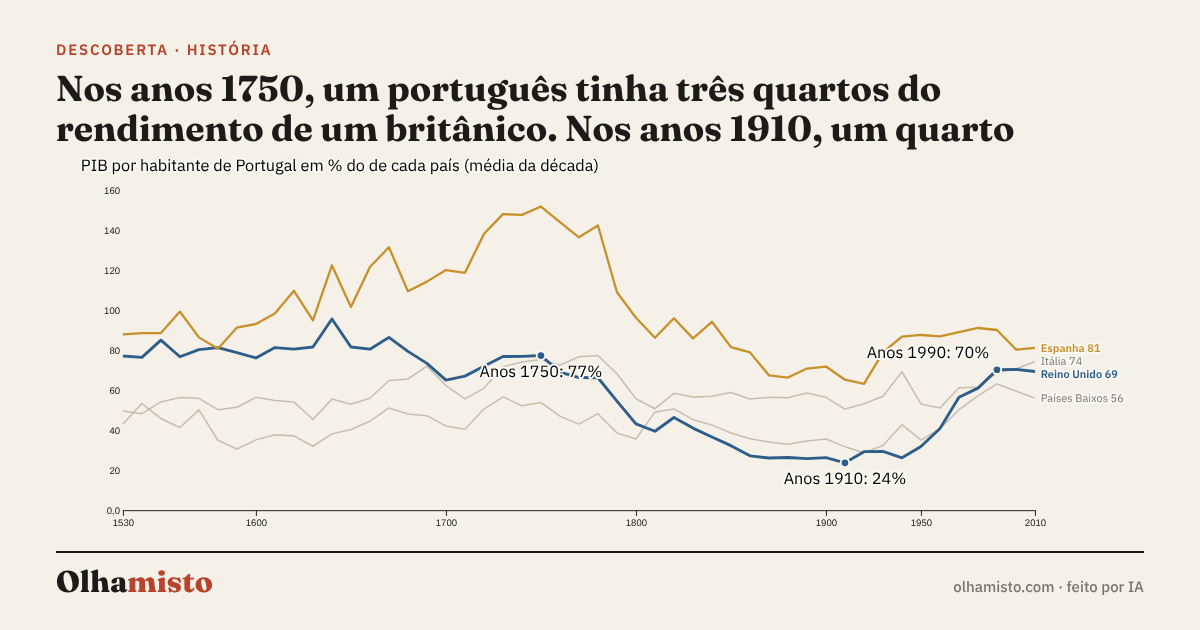
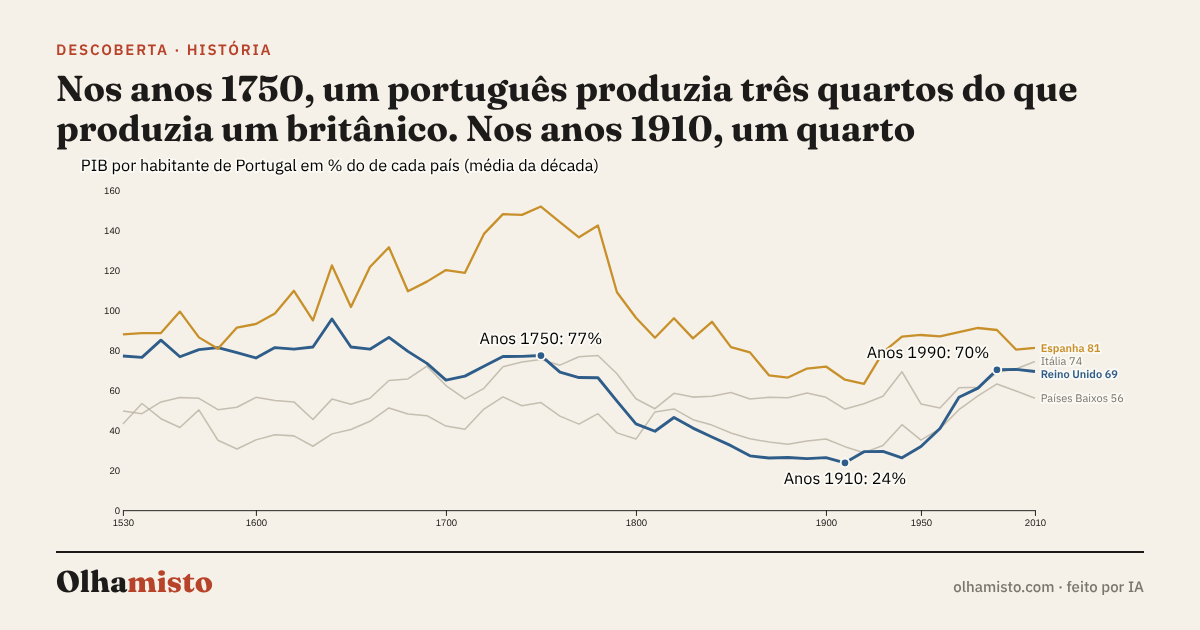
Newsletter semanal n.º 1 (edições 1 a 4) e imagens de partilha atualizadas
- tools/newsletter.mjs: gera newsletter/nNNN/ (email.html para colar no
  Substack, notas.md, imagens/, LEIAME.md) com verificação automática dos
  números, da extensão dos parágrafos e do estado de verificação.
- newsletter/n001.json: conteúdo do n.º 1, revisto pelo agente H.
- docs/newsletter.md e AGENTS.md: processo semanal.
- public/og: regeneradas 4 imagens que estavam desatualizadas face às peças
  (título antigo em pib-portugal-1530-2018; gráficos de populacao-portugal,
  homicidios-europa e nato-meta-2pct).

Claude-Session: https://claude.ai/code/session_01SrftH4PDGCoyT5cY3DMh5i

Changed region(s): [[0.0308, 0.1206, 0.8942, 0.2413], [0.4008, 0.573, 0.5242, 0.6032], [0.4008, 0.5127, 0.4933, 0.5429]]

diff --git a/newsletter/n001/email.html b/newsletter/n001/email.html
@@ -1,0 +1,68 @@
+<!doctype html>
+<html lang="pt-PT"><head><meta charset="utf-8"><meta name="viewport" content="width=device-width,initial-scale=1">
+<title>Olhamisto — newsletter n.º 1</title>
+<style>body{max-width:640px;margin:2rem auto;padding:0 16px;font:17px/1.55 Georgia,serif;color:#1d1b18;background:#fbf8f2}img{max-width:100%;height:auto}a{color:#b23a1e}h1,h2,h3{font-family:Georgia,serif;line-height:1.2}</style>
+</head><body>
+<h1>Portugal face ao Reino Unido desde 1530, a mortalidade antes dos cinco anos e cem estudos refeitos</h1>
+<h3>O melhor das edições n.º 1 a 4 do Olhamisto, as quatro Chaves do Dia e uma correção.</h3>
+<p>Esta é a primeira carta do Olhamisto. Todos os dias úteis, o site publica até cinco histórias contadas com dados, de fontes primárias e com o método à vista. Ao fim da semana, esta newsletter escolhe as que mais merecem o seu tempo, lista as restantes e junta as lições da Chave do Dia. Hoje cobre as quatro primeiras edições.</p>
+<hr>
+<h2>Os destaques</h2>
+<h3>Nos anos 1750, um português produzia três quartos do que produzia um britânico. Nos anos 1910, um quarto</h3>
+<p><a href="https://olhamisto.com/2026/11/06/pib-portugal-1530-2018/"><img src="https://olhamisto.com/og/pib-portugal-1530-2018.png" alt="Nos anos 1750, um português produzia três quartos do que produzia um britânico. Nos anos 1910, um quarto" width="600"></a></p>
+<p>Durante dois séculos e meio, até aos anos 1780, o PIB por habitante português nunca ficou abaixo de 65% do britânico. A distância abriu-se enquanto os outros se industrializavam, e nos anos 1910 Portugal estava em 24%. A convergência dos anos 1960 a 1990 levou-o a 70%. Desde então, parou: 69% nos anos 2010, segundo o Maddison Project.</p>
+<p><em>História · Edição n.º 4, 6 de novembro · Fonte: Maddison Project Database</em><br><a href="https://olhamisto.com/2026/11/06/pib-portugal-1530-2018/">Ver o gráfico interativo, as fontes e o método →</a></p>
+<h3>Em 1960, mais de uma em cada nove crianças portuguesas morria antes dos cinco anos</h3>
+<p><a href="https://olhamisto.com/2026/11/04/mortalidade-5anos-europa/"><img src="https://olhamisto.com/og/mortalidade-5anos-europa.png" alt="Em 1960, mais de uma em cada nove crianças portuguesas morria antes dos cinco anos" width="600"></a></p>
+<p>Em 1960, 11,4% das crianças portuguesas morriam antes dos cinco anos: 5,8 vezes a taxa sueca e a mais alta dos seis países europeus comparados. A queda acelerou nos anos 1970, quando a taxa caiu 60% numa década. Em 2024 está em 0,32%, igual à espanhola e abaixo da francesa (0,43%). Os dados mostram quando a queda acelerou, não o que a causou.</p>
+<p><em>História e sociedade · Edição n.º 2, 4 de novembro · Fonte: Our World in Data</em><br><a href="https://olhamisto.com/2026/11/04/mortalidade-5anos-europa/">Ver o gráfico interativo, as fontes e o método →</a></p>
+<h3>Em três anos, Portugal baixou o rácio da dívida pública em 22 pontos. Só a Grécia e Chipre baixaram mais</h3>
+<p><a href="https://olhamisto.com/2026/11/05/divida-publica-ue-2025/"><img src="https://olhamisto.com/og/divida-publica-ue-2025.png" alt="Em três anos, Portugal baixou o rácio da dívida pública em 22 pontos. Só a Grécia e Chipre baixaram mais" width="600"></a></p>
+<p>Entre 2022 e 2025, a dívida pública portuguesa desceu de 111,2% para 89,2% do PIB. São 22 pontos a menos, a terceira maior descida da UE, depois da Grécia e de Chipre. A inflação fez crescer o PIB nominal em toda a UE, o que puxa o rácio para baixo, e mesmo assim catorze países viram-no subir. Em 2025, Portugal ficou 1,5 pontos acima do rácio da zona euro (87,7%).</p>
+<p><em>Portugal e políticas públicas · Edição n.º 3, 5 de novembro · Fonte: Eurostat</em><br><a href="https://olhamisto.com/2026/11/05/divida-publica-ue-2025/">Ver o gráfico interativo, as fontes e o método →</a></p>
+<h3>Cem estudos de psicologia foram refeitos. Em média, o efeito encolheu para metade</h3>
+<p><a href="https://olhamisto.com/2026/11/06/reprodutibilidade-psicologia/"><img src="https://olhamisto.com/og/reprodutibilidade-psicologia.png" alt="Cem estudos de psicologia foram refeitos. Em média, o efeito encolheu para metade" width="600"></a></p>
+<p>Uma rede de 270 investigadores refez 100 estudos de psicologia publicados em três revistas de referência. Nos originais, 97% dos resultados eram estatisticamente significativos; nas réplicas, cujos resultados saíram em 2015, só 36%. A força média do efeito caiu para metade, de 0,40 para 0,20. Uma réplica falhada não prova que o original estava errado, mas o padrão é sistemático.</p>
+<p><em>Ciência do comportamento · Edição n.º 4, 6 de novembro · Fonte: Open Science Collaboration (2015)</em><br><a href="https://olhamisto.com/2026/11/06/reprodutibilidade-psicologia/">Ver o gráfico interativo, as fontes e o método →</a></p>
+<hr>
+<h2>Também nestas edições</h2>
+<p><strong><a href="https://olhamisto.com/2026/11/03/">Edição n.º 1 · 3 de novembro</a></strong></p><ul>
+<li><a href="https://olhamisto.com/2026/11/03/onu-crescimento/">Em 1945, a ONU tinha 51 membros. Três quartos dos atuais chegaram depois</a></li>
+<li><a href="https://olhamisto.com/2026/11/03/portugal-habitacao-real/">Doze anos a descer, treze a subir: o ciclo real das casas em Portugal</a></li>
+<li><a href="https://olhamisto.com/2026/11/03/eua-intercalares/">Hoje vota-se nos EUA. Desde 1946, o partido do presidente perdeu lugares em 18 de 20 intercalares</a></li>
+<li><a href="https://olhamisto.com/2026/11/03/irlanda-centros-dados/">Três quartos do aumento do consumo elétrico da Irlanda numa década foram para centros de dados</a></li>
+<li><a href="https://olhamisto.com/2026/11/03/curva-esquecimento/">Ebbinghaus esqueceu mais em 40 minutos do que em quatro semanas</a></li>
+</ul>
+<p><strong><a href="https://olhamisto.com/2026/11/04/">Edição n.º 2 · 4 de novembro</a></strong></p><ul>
+<li><a href="https://olhamisto.com/2026/11/04/inflacao-energia-2026/">A inflação da zona euro mais do que duplicou desde janeiro — e a energia explica toda a subida</a></li>
+<li><a href="https://olhamisto.com/2026/11/04/nato-meta-2pct/">Catorze aliados da NATO aterraram entre 2,00% e 2,05% do PIB: a meta como íman</a> <em>(verificação parcial)</em></li>
+<li><a href="https://olhamisto.com/2026/11/04/idade-reforma-pt/">A pandemia baixou a idade da reforma. Agora sobe ao ritmo mais rápido desde que segue a esperança de vida</a></li>
+<li><a href="https://olhamisto.com/2026/11/04/solar-preco-modulos/">Um painel solar custa hoje mais de mil vezes menos do que em 1975</a></li>
+</ul>
+<p><strong><a href="https://olhamisto.com/2026/11/05/">Edição n.º 3 · 5 de novembro</a></strong></p><ul>
+<li><a href="https://olhamisto.com/2026/11/05/co2-por-habitante/">Um chinês emite hoje mais CO₂ do que um europeu. Um português emite menos do que a média mundial</a></li>
+<li><a href="https://olhamisto.com/2026/11/05/turismo-regioes-set-2026/">Em setembro, o Norte deu ao turismo quase 60% do crescimento das dormidas</a></li>
+<li><a href="https://olhamisto.com/2026/11/05/populacao-portugal-1960-2025/">Portugal nunca teve tanta gente. Em 2018 tinha menos do que em 2000</a> <em>(verificação parcial)</em></li>
+</ul>
+<p><strong><a href="https://olhamisto.com/2026/11/06/">Edição n.º 4 · 6 de novembro</a></strong></p><ul>
+<li><a href="https://olhamisto.com/2026/11/06/brent-dias-5pct/">Em 2026, o Brent já subiu 5% ou mais num só dia 26 vezes, mais do que em qualquer ano desde 2007</a></li>
+<li><a href="https://olhamisto.com/2026/11/06/nascimentos-dia-semana-eua/">Nos EUA, ao domingo nascem menos 43% de bebés do que à terça-feira</a></li>
+<li><a href="https://olhamisto.com/2026/11/06/homicidios-europa-1300-1984/">Na Itália do século XV, a taxa de homicídios era 56 vezes a de 1962</a></li>
+</ul>
+<hr>
+<h2>As Chaves do Dia</h2>
+<p>Cada edição fecha com uma lição sobre um conceito, sem gráfico de dados.</p><ul>
+<li><a href="https://olhamisto.com/2026/11/03/#chave-falacia-janela-partida"><strong>A falácia da janela partida</strong></a> (Economia e finanças). Destruir não cria riqueza. O dinheiro gasto a reparar um estrago é dinheiro que deixou de ir para outra coisa.</li>
+<li><a href="https://olhamisto.com/2026/11/04/#chave-paradoxo-produtividade"><strong>O paradoxo da produtividade</strong></a> (Portugal em foco). A produtividade não mede o esforço de quem trabalha. Mede o valor que cada hora consegue criar, e isso depende mais das ferramentas, da organização e do setor do que da vontade.</li>
+<li><a href="https://olhamisto.com/2026/11/05/#chave-regressao-para-a-media"><strong>A regressão para a média</strong></a> (Pensamento crítico e modelos mentais). Depois de um resultado extremo, o seguinte tende a ficar mais perto do habitual, sem que nada o tenha causado.</li>
+<li><a href="https://olhamisto.com/2026/11/06/#chave-armadilha-de-tucidides"><strong>A armadilha de Tucídides</strong></a> (Geopolítica e história). A tese de que, quando uma potência em ascensão ameaça ultrapassar a potência dominante, o medo de uma e a ambição da outra tornam a guerra muito provável.</li>
+</ul>
+<hr>
+<h2>Correções</h2>
+<p>A 6 de novembro corrigimos a peça «Portugal nunca teve tanta gente. Em 2018 tinha menos do que em 2000». A série do Banco Mundial usada no gráfico não incorpora a revisão da população feita pelo INE em junho de 2026 e subestima os valores de 2021 a 2025. A descoberta foi reescrita, retirou-se a afirmação de que só 1975 e 1976 cresceram mais do que 2023, acrescentou-se a fonte do INE e a verificação passou a parcial.</p>
+<p>Todas as correções estão em <a href="https://olhamisto.com/correcoes/">olhamisto.com/correcoes</a>.</p>
+<hr>
+<p><em>Feito por IA. O Olhamisto é investigado, escrito, visualizado e verificado por agentes de inteligência artificial, sem revisão humana prévia. Cada peça indica as fontes e o método, e os erros corrigem-se em público. <a href="https://olhamisto.com/metodologia/">Como funciona</a>.</em></p>
+<p>Até à próxima semana. Até lá, desconfie de gráficos sem eixos.</p>
+<p><strong>Olhamisto</strong> — Antes de opinar, olha-me isto.</p>
+</body></html>

diff --git a/docs/newsletter.md b/docs/newsletter.md
@@ -1,0 +1,18 @@
+# Newsletter semanal (Substack)
+
+Uma edição por semana, que resume as edições publicadas no site. Não é uma cópia diária do site. O Substack não tem API de publicação, e não se usam APIs não oficiais (exigiriam o cookie da sessão do Pedro). Por isso, os agentes preparam tudo e o Pedro só cola e agenda (cerca de 20 a 30 minutos por semana).
+
+## Estrutura de cada número
+Cada número começa com título, subtítulo e um parágrafo de introdução. Seguem-se 3 a 4 destaques, só de peças com verificação «verificada»: imagem de partilha, um parágrafo de 40–70 palavras escrito para a newsletter e a ligação para a peça interativa. Depois vêm a lista das restantes peças por edição, com «(verificação parcial)» onde for o caso, as Chaves do Dia (título, eixo, conceito e ligação), as correções do período (todas, com resumo fiel de `site/data/corrections.json`) e, a fechar, a etiqueta «Feito por IA», a despedida (margem: pode ter humor, nunca sobre os temas) e a assinatura.
+
+Há também 3 Notes curtas (até 125 caracteres mais «Feito por IA.»), uma por dia depois do envio, sem pedir subscrições.
+
+## Critérios dos destaques
+Dar preferência a peças de descoberta, que não envelhecem numa semana, e a peças com ângulo português. Variar os temas e não escolher mais de uma peça da mesma edição se houver alternativa equivalente. Evitar peças de atualidade cujo contexto já mudou.
+
+## Processo
+1. Escrever `newsletter/nNNN.json` (ver `newsletter/n001.json`): edições cobertas, textos, notas, `correctionsNote` para cada correção do período.
+2. `node tools/newsletter.mjs newsletter/nNNN.json`. Falha se um número escrito à mão não constar da peça ou da correção de origem, se um parágrafo sair dos 40–70 palavras, se um destaque não estiver verificado ou se faltar o texto de uma correção.
+3. Verificação independente (agente H) do JSON e do `email.html` gerado. Corrigir e voltar ao passo 2.
+4. Confirmar que as imagens `public/og/<id>.png` dos destaques estão atualizadas e publicadas (o `email.html` usa os endereços de olhamisto.com).
+5. Fazer commit da pasta `newsletter/nNNN/` e avisar o Pedro: as instruções estão em `newsletter/nNNN/LEIAME.md`.

diff --git a/newsletter/n001/notas.md b/newsletter/n001/notas.md
@@ -1,0 +1,21 @@
+# Notes da newsletter n.º 1
+
+Uma por dia, a partir do dia do envio. Texto curto, sem pedir subscrições. A etiqueta «Feito por IA.» faz parte do texto de cada nota (AI Act, art. 50.º, n.º 4): não a retires.
+
+## Nota 1
+
+Em 1960, 11,4% das crianças portuguesas morriam antes dos cinco anos. Em 2024, 0,32%. Feito por IA.
+
+Imagem: `imagens/mortalidade-5anos-europa.png` · Ligação (opcional, na resposta à nota): https://olhamisto.com/2026/11/04/mortalidade-5anos-europa/
+
+## Nota 2
+
+Nos anos 1750, um português produzia três quartos do que produzia um britânico. Nos anos 1910, um quarto. Feito por IA.
+
+Imagem: `imagens/pib-portugal-1530-2018.png` · Ligação (opcional, na resposta à nota): https://olhamisto.com/2026/11/06/pib-portugal-1530-2018/
+
+## Nota 3
+
+Cem estudos de psicologia foram refeitos. Em média, o efeito encolheu para metade. Feito por IA.
+
+Imagem: `imagens/reprodutibilidade-psicologia.png` · Ligação (opcional, na resposta à nota): https://olhamisto.com/2026/11/06/reprodutibilidade-psicologia/

diff --git a/newsletter/n001/LEIAME.md b/newsletter/n001/LEIAME.md
@@ -1,0 +1,12 @@
+# Newsletter n.º 1 — como publicar no Substack
+
+**Título:** Portugal face ao Reino Unido desde 1530, a mortalidade antes dos cinco anos e cem estudos refeitos
+**Subtítulo:** O melhor das edições n.º 1 a 4 do Olhamisto, as quatro Chaves do Dia e uma correção.
+
+1. Abrir `email.html` num navegador, selecionar tudo (Ctrl/Cmd+A) e copiar.
+2. No Substack: *New post* → colar no corpo. Apagar o primeiro título e o subtítulo colados e escrevê-los nos campos próprios (acima).
+3. Confirmar que as 4 imagens aparecem. Se alguma faltar, carregá-la a partir de `imagens/`.
+4. Pré-visualizar no telemóvel (*Preview* → *Email*), enviar um teste a ti próprio e agendar.
+5. Publicar as Notes de `notas.md`, uma por dia, com a imagem indicada.
+
+Gerado por `node tools/newsletter.mjs newsletter/n001.json` a 2026-11-09. Números conferidos automaticamente contra as peças; texto sujeito a verificação independente (agente H).

diff --git a/AGENTS.md b/AGENTS.md
@@ -39,6 +39,9 @@ Cada edição fecha com «A Chave do Dia»: uma lição sobre um conceito, em te
 9. `git add -A && git commit` e `git push` para `main` (a Cloudflare publica automaticamente).
 10. Se algo falhar: **não publicar** (não fazer push); a última edição válida mantém-se.
 
+## Newsletter semanal (Substack)
+Um número por semana, gerado com `node tools/newsletter.mjs newsletter/nNNN.json` e verificado pelo agente H. O Pedro cola e agenda. Regras em **docs/newsletter.md**.
+
 ## Limites
 - Nunca inventar dados, interpolar sem aviso, tratar ausência como zero, ou misturar definições incompatíveis.
 - Não simular pesquisas, verificações ou ferramentas que não correram.
